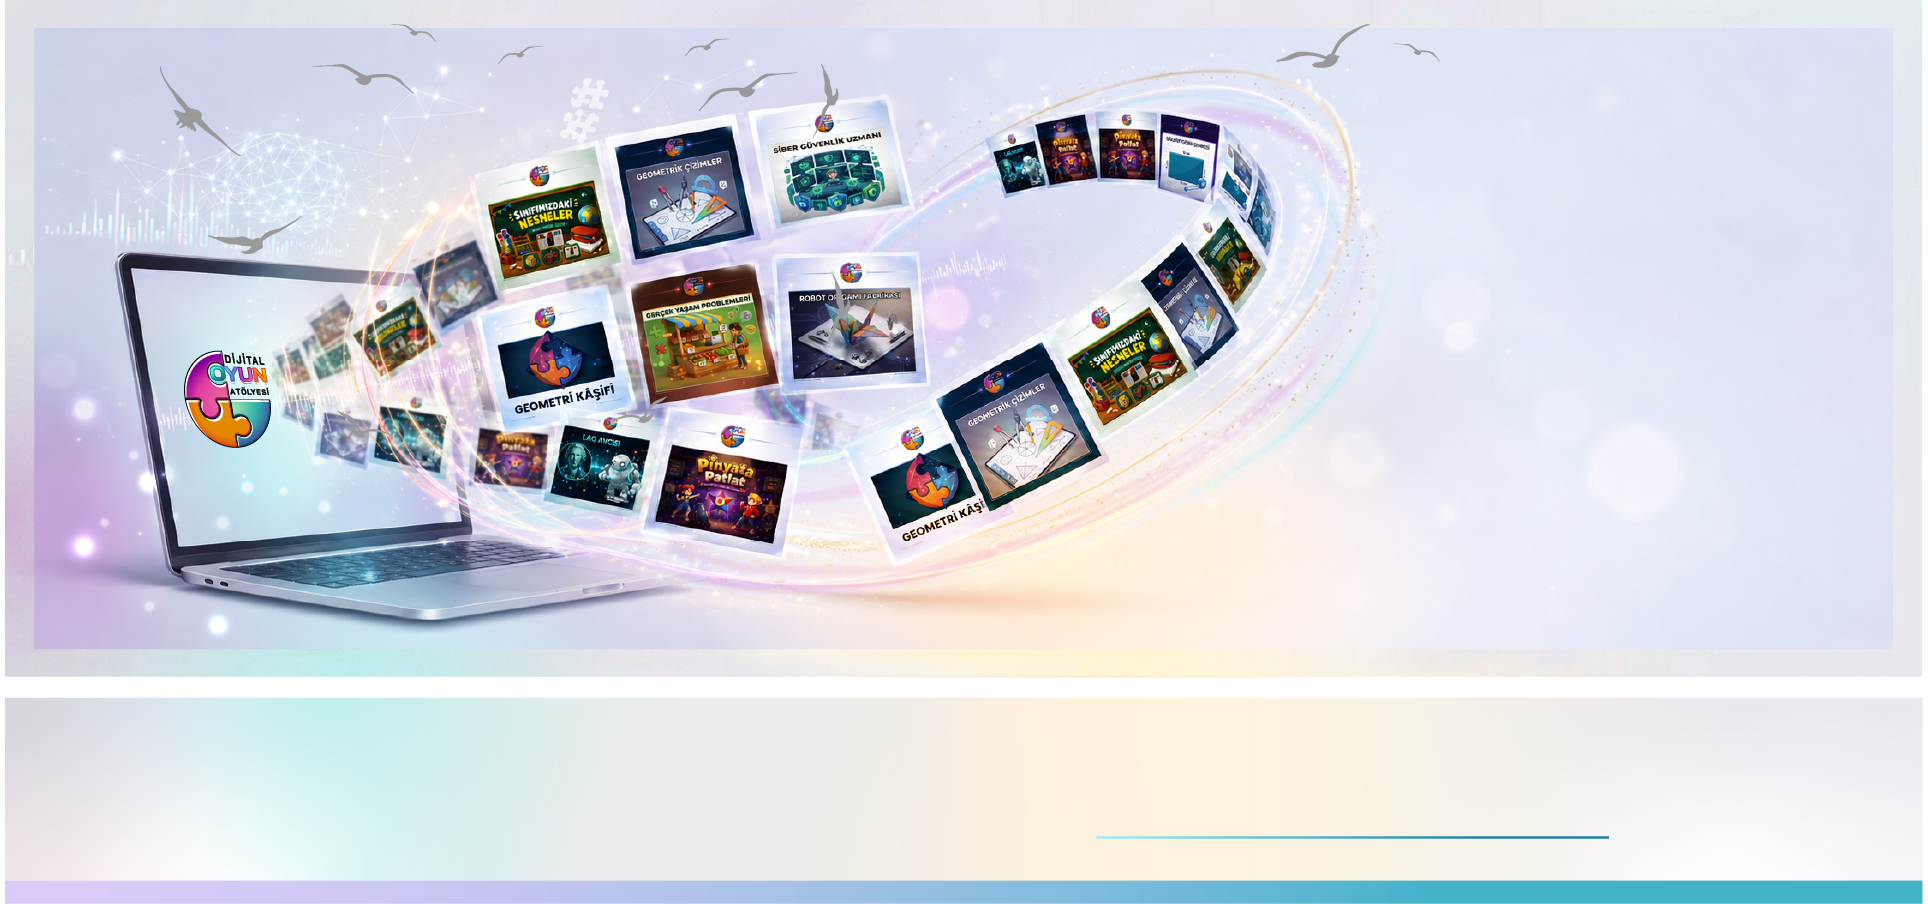
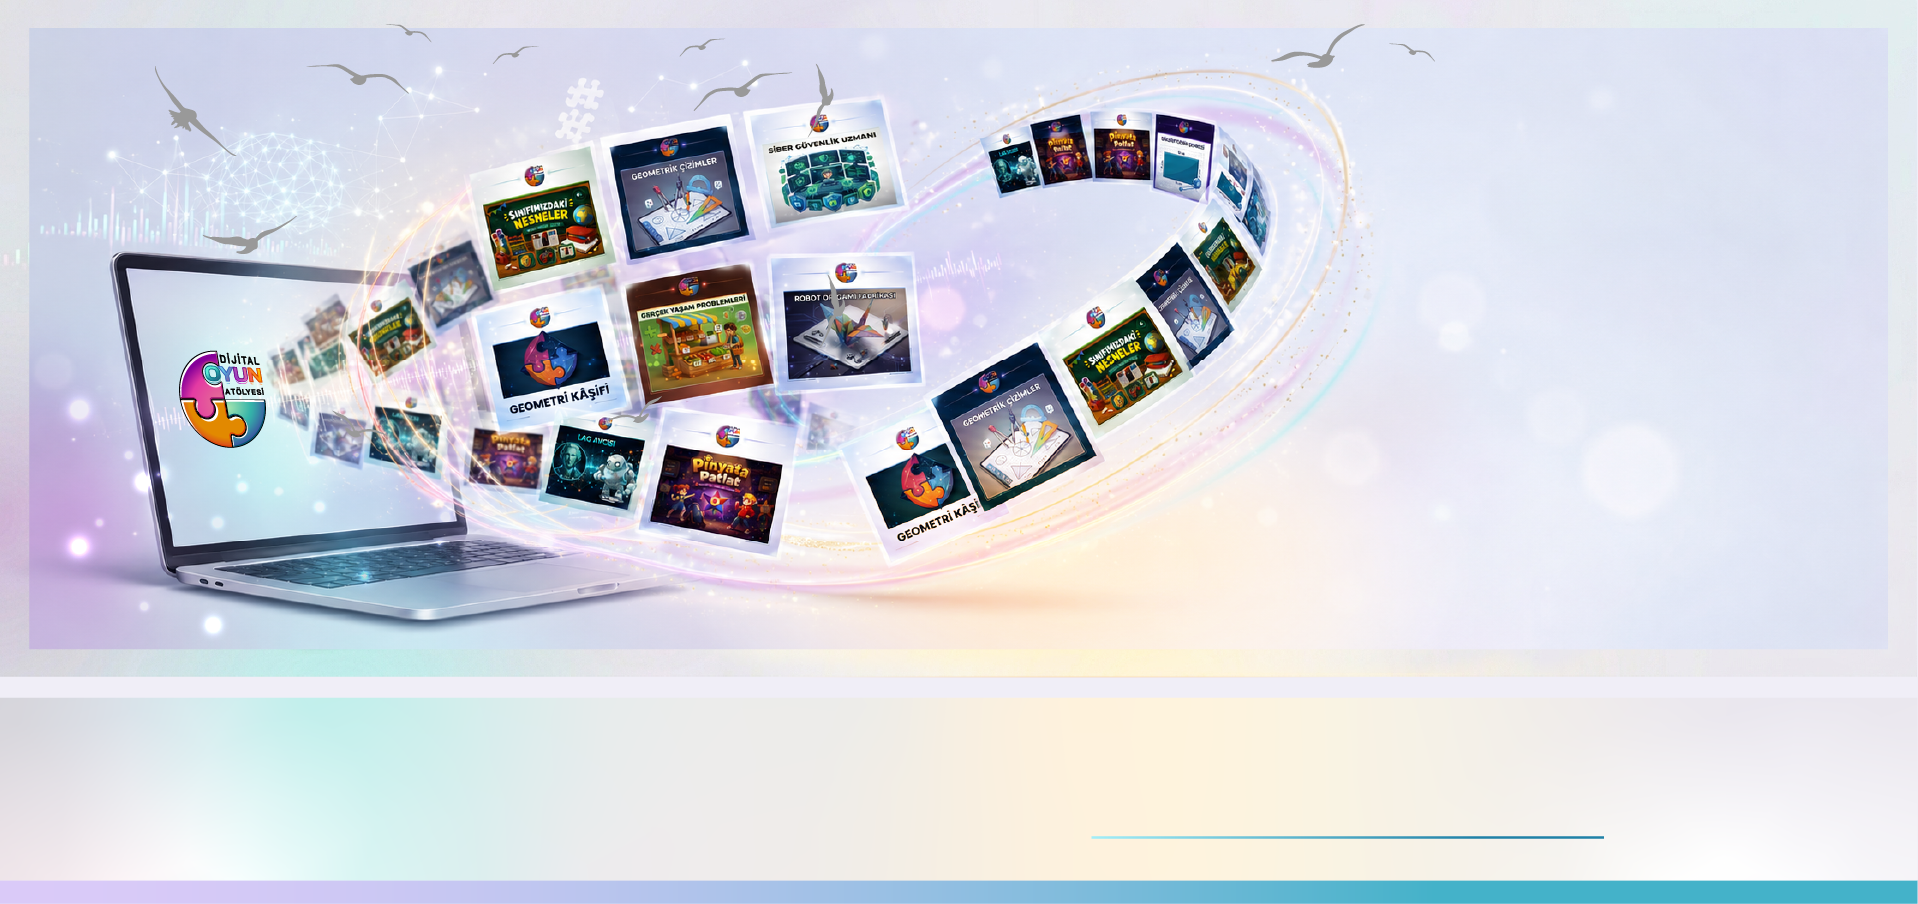
fix(web): ana sayfa hero düzeni, footer logosu ve el yazısı başlık kırpılması düzeltildi
- Hero görseli kenarları düzleştirilip kırpıldı (köşelerdeki çift çerçeve giderildi)
- İstatistik şeridi + Oyunları Keşfet butonu görselin alt bandına overlay edildi
- Footer logosu header'daki marka logosuyla değiştirildi
- da-script (Dancing Script) başlıklarda harf uzantılarının kesilmesi line-height/padding ile düzeltildi

diff --git a/src/Web/dijitalatolye-web-ng/src/app/features/public/home/home.component.ts b/src/Web/dijitalatolye-web-ng/src/app/features/public/home/home.component.ts
@@ -32,20 +32,18 @@ interface SearchResponse { items: SearchItem[]; total: number; }
   template: `
     <!-- ================= HERO ================= -->
     <section class="da-dream-bg relative overflow-hidden">
-      <!-- Tam genişlik (full-bleed) hero görseli -->
-      <div class="relative w-full">
+      <!-- Tam genişlik hero görseli — kenarlardan küçük marjla tek panel (hedef tasarımdaki gibi) -->
+      <div class="relative w-full px-2 pt-2 sm:px-4 sm:pt-4">
         <img src="assets/brand/hero-bg.png" alt="Dijital Oyun Atölyesi oyun ekranları"
-             class="block w-full h-auto select-none pointer-events-none" />
-        <!-- Alt kenarı sayfa arka planına yumuşakça karıştır (dikiş izini gizler) -->
-        <div class="absolute inset-x-0 bottom-0 h-20 bg-gradient-to-b from-transparent to-bg pointer-events-none"></div>
+             class="block w-full h-auto select-none pointer-events-none rounded-lg" />
 
         <!-- lg+ : metin görselin sağındaki boş alana overlay -->
-        <div class="hidden lg:flex absolute inset-y-0 right-0 w-[40%] pr-[3.2vw] pl-[1vw] pt-[3.5vw] flex-col justify-start items-end text-right animate-fade-up">
+        <div class="hidden lg:flex absolute inset-y-0 right-0 w-[40%] pr-[3.2vw] pl-[1vw] pt-[2.6vw] flex-col justify-start items-end text-right animate-fade-up">
           <img src="assets/brand/logo.png" alt="" aria-hidden="true"
                class="w-[7.5vw] max-w-[155px] h-auto mb-[0.5vw]" />
           <h1 class="da-display font-bold text-ink leading-[1.03]">
             <span class="block" style="font-size:3vw">Öğrenmenin</span>
-            <span class="block da-script da-rainbow-text leading-[0.92]" style="font-size:3.5vw">En Eğlenceli</span>
+            <span class="block da-script da-rainbow-text" style="font-size:3.5vw">En Eğlenceli</span>
             <span class="block" style="font-size:3vw">Hâli</span>
           </h1>
           <p class="text-muted leading-relaxed mt-[0.8vw] max-w-[30vw]" style="font-size:0.94vw">
@@ -63,6 +61,24 @@ interface SearchResponse { items: SearchItem[]; total: number; }
             <div class="mt-[0.4vw] h-px w-[22vw] max-w-full bg-gradient-to-l from-cyan2/70 via-accent2/40 to-transparent"></div>
           </div>
         </div>
+
+        <!-- lg+ : istatistikler görselin alt bandının üzerine overlay (hedef tasarımdaki gibi) -->
+        <div class="hidden lg:flex absolute inset-x-0 bottom-0 h-[7.2vw] items-center px-[4.5vw] gap-[2vw] animate-fade-up">
+          <div class="flex items-start gap-[3.2vw]">
+            @for (s of stats; track s.label) {
+              <div>
+                <div class="da-display font-bold text-accent2 leading-none" style="font-size:1.9vw">{{ s.value }}</div>
+                <div class="mt-[0.45vw] font-mono tracking-widest uppercase text-muted leading-snug" style="font-size:0.62vw">{{ s.label }}</div>
+              </div>
+            }
+          </div>
+          <div class="flex-1 h-px bg-ink/25 mx-[1vw]"></div>
+          <a routerLink="/discover"
+             class="shrink-0 inline-flex items-center justify-center gap-2 rounded-full da-grad font-display font-semibold tracking-wide shadow-lg shadow-accent2/25 transition px-[1.8vw] py-[0.75vw]" style="font-size:0.92vw">
+            <mat-icon style="font-size:1.1vw;width:1.1vw;height:1.1vw">sports_esports</mat-icon>
+            OYUNLARI KEŞFET
+          </a>
+        </div>
       </div>
 
       <!-- lg altı: metin görselin altında normal akışta -->
@@ -72,7 +88,7 @@ interface SearchResponse { items: SearchItem[]; total: number; }
         </div>
         <h1 class="da-display font-bold text-ink text-4xl sm:text-5xl leading-[1.06] text-center">
           Öğrenmenin
-          <span class="block da-script da-rainbow-text text-6xl sm:text-7xl leading-[0.95] my-1">En Eğlenceli</span>
+          <span class="block da-script da-rainbow-text text-6xl sm:text-7xl my-1">En Eğlenceli</span>
           Hâli
         </h1>
         <p class="mt-5 text-base text-muted leading-relaxed text-center max-w-xl mx-auto">
@@ -83,9 +99,9 @@ interface SearchResponse { items: SearchItem[]; total: number; }
         <div class="mt-4 da-eyebrow text-accent2 text-center">MEB Müfredatı - AI Ön İnceleme - Editör Onaylı</div>
       </div>
 
-      <!-- İstatistik şeridi (tam genişlik) + Oyunları Keşfet -->
-      <div class="relative -mt-6">
-        <div class="max-w-7xl mx-auto px-4 lg:px-8 pb-8 pt-2 flex flex-col lg:flex-row lg:items-center gap-8">
+      <!-- İstatistik şeridi — yalnız mobil/tablet (lg+'da görselin alt bandına overlay) -->
+      <div class="lg:hidden relative">
+        <div class="max-w-7xl mx-auto px-4 pb-8 pt-4 flex flex-col gap-8">
           <div class="grid grid-cols-2 sm:grid-cols-4 gap-6 flex-1">
             @for (s of stats; track s.label) {
               <div>

diff --git a/src/Web/dijitalatolye-web-ng/src/app/layouts/public-layout/public-layout.component.ts b/src/Web/dijitalatolye-web-ng/src/app/layouts/public-layout/public-layout.component.ts
@@ -25,7 +25,7 @@ type Theme = 'light' | 'dark';
 
           <nav class="hidden md:flex items-center gap-8 text-[15px] font-display font-medium">
             <a routerLink="/games" routerLinkActive="text-accent" class="text-ink/80 hover:text-accent transition-colors">Oyunlar</a>
-            <a routerLink="/digital" routerLinkActive="text-accent" class="text-ink/80 hover:text-accent transition-colors">Videolar</a>
+            <a routerLink="/digital" routerLinkActive="text-accent" class="text-ink/80 hover:text-accent transition-colors">Dijital İçerikler</a>
             <a routerLink="/ebooks" routerLinkActive="text-accent" class="text-ink/80 hover:text-accent transition-colors">E-Kitaplar</a>
             <a routerLink="/about" routerLinkActive="text-accent" class="text-ink/80 hover:text-accent transition-colors">Hakkımızda</a>
           </nav>
@@ -60,10 +60,8 @@ type Theme = 'light' | 'dark';
         <div class="relative max-w-7xl mx-auto px-4 py-14 grid gap-10 md:grid-cols-4 text-sm">
           <div class="md:col-span-2">
             <a routerLink="/" class="flex items-center gap-2.5 font-display font-bold text-ink text-lg">
-              <span class="inline-flex items-center justify-center w-9 h-9 rounded-xl bg-gradient-to-br from-accent to-accent2 text-white">
-                <mat-icon style="font-size:18px;width:18px;height:18px">sports_esports</mat-icon>
-              </span>
-              Dijital<span class="text-accent">Atölye</span>
+              <img src="assets/brand/logo.png" alt="Dijital Oyun Atölyesi" class="h-11 w-auto" />
+              Dijital&nbsp;Oyun <span class="da-rainbow-text">Atölyesi</span>
             </a>
             <p class="mt-4 max-w-md leading-relaxed text-muted">
               Eğlenerek öğrenmenin dijital adresi. MEB müfredatına uygun, AI ön incelemesinden geçmiş,

diff --git a/src/Web/dijitalatolye-web-ng/src/styles.css b/src/Web/dijitalatolye-web-ng/src/styles.css
@@ -81,12 +81,15 @@ body {
   letter-spacing: 0.01em;
 }
 
-/* El yazısı (script) vurgu — "En Eğlenceli", "oyna ve öğren!" */
+/* El yazısı (script) vurgu — "En Eğlenceli", "oyna ve öğren!"
+   Not: gradyan metin (background-clip:text) kutu dışına taşan harf uzantılarını
+   boyamaz; bu yüzden satır yüksekliği geniş, alt/üst küçük dolgu bırakılır. */
 .da-script {
   font-family: "Dancing Script", "Instrument Serif", cursive;
   font-weight: 700;
   letter-spacing: 0.005em;
-  line-height: 1;
+  line-height: 1.18;
+  padding: 0.06em 0.05em 0.14em;
 }
 
 /* Pastel rüya arka planı (1. sayfa hero / yumuşak bölümler) */
